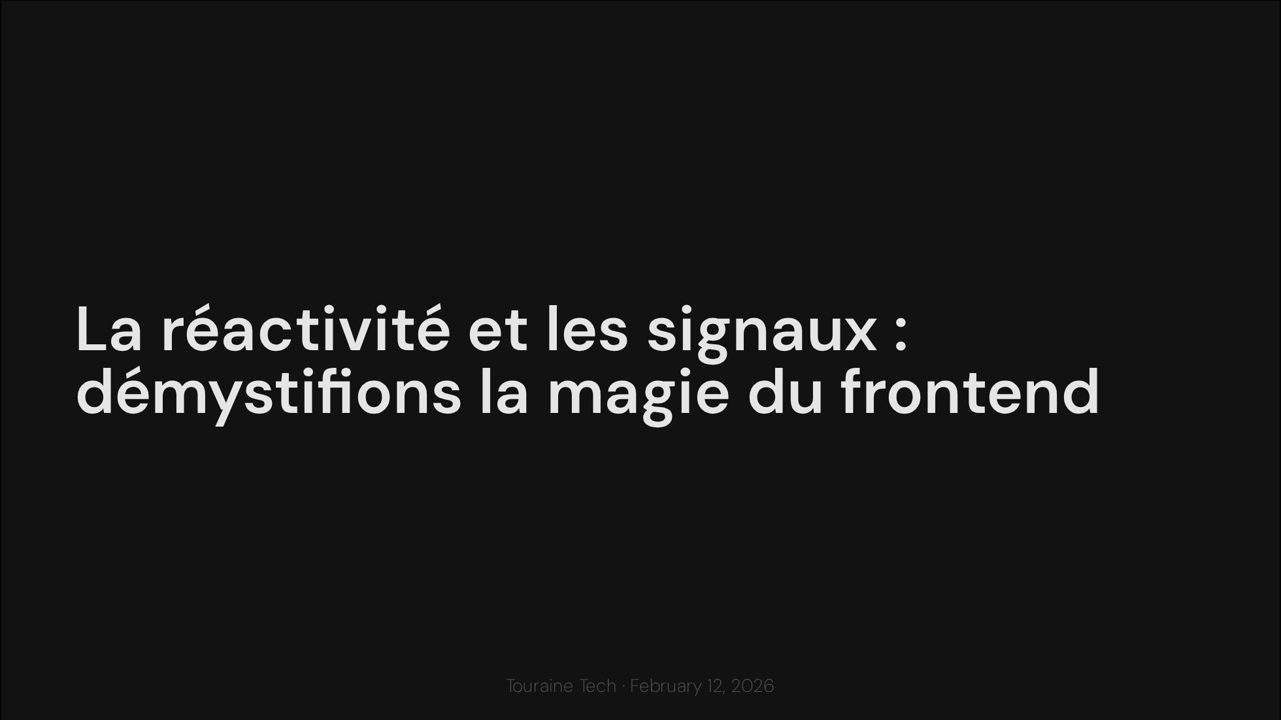
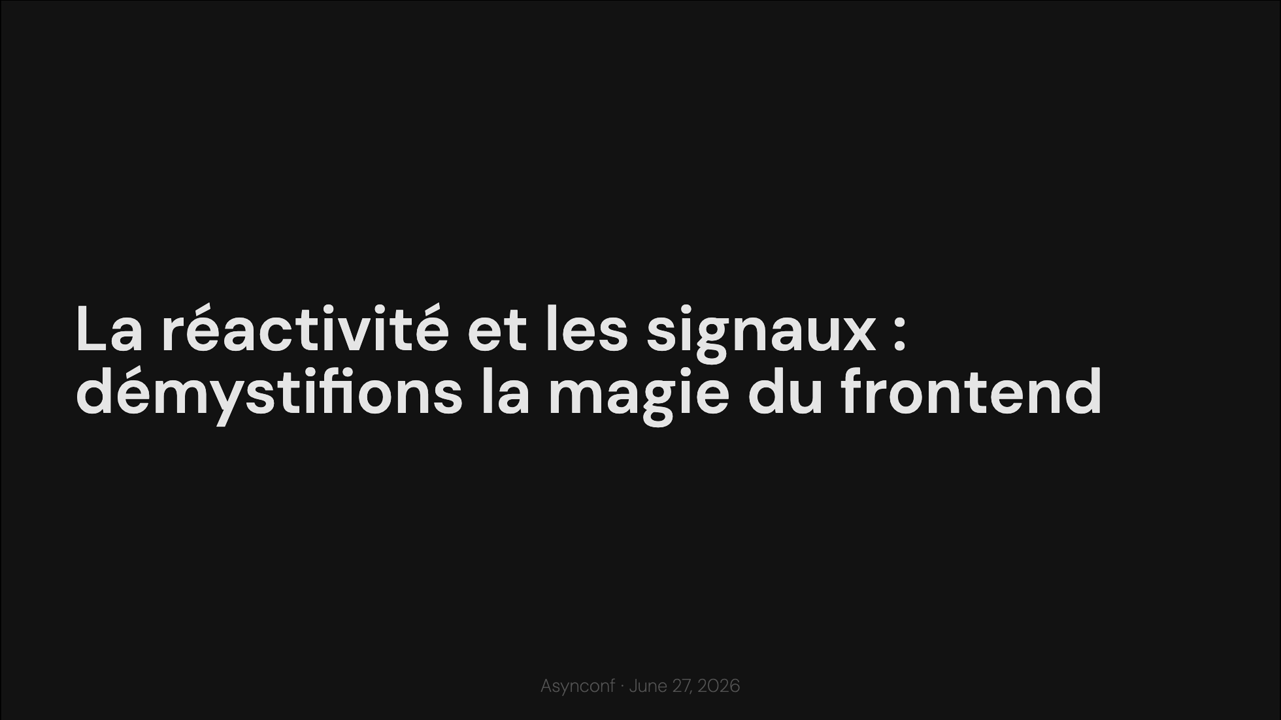
chore: ready

diff --git a/README.md b/README.md
@@ -6,6 +6,8 @@ Slides from my [talks](https://soubiran.dev/talks).
 
 ### 2026
 
+- `fr` [La réactivité et les signaux : démystifions la magie du frontend](./2026-06-27-1) - Asynconf
+- `fr` [Au cœur d'une pipeline : démystifions Vite et ses plugins](./2026-06-27-2) - Asynconf
 - `fr` [Au cœur d'une pipeline : démystifions Vite et ses plugins](./2026-06-18) - Voxxed Days Luxembourg
 - `fr` [Au cœur d'une pipeline : démystifions Vite et ses plugins](./2026-06-12) - DevLille
 - `fr` [Au cœur d'une pipeline : démystifions Vite et ses plugins](./2026-06-09) - Paris TypeScript
@@ -56,6 +58,8 @@ Slides from my [talks](https://soubiran.dev/talks).
 <summary>Copy talks list as text</summary>
 
 ```
+2026-06-27 - La réactivité et les signaux : démystifions la magie du frontend - Asynconf - Paris, France
+2026-06-27 - Au cœur d'une pipeline : démystifions Vite et ses plugins - Asynconf - Paris, France
 2026-06-18 - Au cœur d'une pipeline : démystifions Vite et ses plugins - Voxxed Days Luxembourg - Luxembourg, Luxembourg
 2026-06-12 - Au cœur d'une pipeline : démystifions Vite et ses plugins - DevLille - Lille, France
 2026-06-09 - Au cœur d'une pipeline : démystifions Vite et ses plugins - Paris TypeScript - Paris, France
@@ -102,16 +106,17 @@ Slides from my [talks](https://soubiran.dev/talks).
 
 | Year | Number of Talks |
 |------|-----------------|
-| 2026 | 8 |
+| 2026 | 12 |
 | 2025 | 19 |
 | 2024 | 6 |
 | 2023 | 1 |
-| **Total** | **34** |
+| **Total** | **38** |
 
 ### Talks per Event
 
 | Event | Total | 2026 | 2025 | 2024 | 2023 |
 |-------|-------|------|------|------|------|
+| Asynconf | 2 | 2 | 0 | 0 | 0 |
 | BDX I/O | 2 | 0 | 2 | 0 | 0 |
 | BreizhCamp | 2 | 0 | 2 | 0 | 0 |
 | DevFest Dijon | 1 | 0 | 1 | 0 | 0 |
@@ -137,13 +142,13 @@ Slides from my [talks](https://soubiran.dev/talks).
 
 | Talk Title | Total | 2026 | 2025 | 2024 | 2023 |
 |------------|-------|------|------|------|------|
-| Au cœur d'une pipeline : démystifions Vite et ses plugins | 5 | 5 | 0 | 0 | 0 |
+| Au cœur d'une pipeline : démystifions Vite et ses plugins | 8 | 8 | 0 | 0 | 0 |
 | Découvrons ensemble l'écosystème UnJS | 1 | 0 | 0 | 1 | 0 |
 | Deviens full-stack avec TypeScript | 1 | 0 | 1 | 0 | 0 |
 | En JavaScript, il y a un paquet pour tout... et souvent pour rien. | 7 | 1 | 6 | 0 | 0 |
 | Fluidifier l'expérience utilisateur | 1 | 0 | 0 | 1 | 0 |
 | Inertia: Un Anneau pour les gouverner tous | 3 | 1 | 2 | 0 | 0 |
-| La réactivité et les signaux : démystifions la magie du frontend | 9 | 1 | 8 | 0 | 0 |
+| La réactivité et les signaux : démystifions la magie du frontend | 10 | 2 | 8 | 0 | 0 |
 | Nuxt, NuxtHub et le full-stack | 1 | 0 | 0 | 1 | 0 |
 | Ship Nuxt apps that scale | 2 | 0 | 1 | 1 | 0 |
 | Unifié et Universel, le JavaScript avec UnJS | 1 | 0 | 0 | 1 | 0 |
@@ -155,11 +160,11 @@ Slides from my [talks](https://soubiran.dev/talks).
 
 | Year | With Recording | Without Recording | Coverage |
 |------|----------------|-------------------|----------|
-| 2026 | 1 | 7 | 13% |
+| 2026 | 1 | 11 | 8% |
 | 2025 | 6 | 13 | 32% |
 | 2024 | 3 | 3 | 50% |
 | 2023 | 1 | 0 | 100% |
-| **Total** | **11** | **23** | **32%** |
+| **Total** | **11** | **27** | **29%** |
 
 ### Talks per City
 
@@ -167,10 +172,12 @@ Slides from my [talks](https://soubiran.dev/talks).
 |------|-------|------|------|------|------|
 | Bordeaux | 2 | 0 | 2 | 0 | 0 |
 | Dijon | 1 | 0 | 1 | 0 | 0 |
+| Lille | 1 | 1 | 0 | 0 | 0 |
+| Luxembourg | 1 | 1 | 0 | 0 | 0 |
 | Lyon | 3 | 1 | 2 | 0 | 0 |
 | Nantes | 1 | 0 | 1 | 0 | 0 |
 | Online | 1 | 0 | 0 | 1 | 0 |
-| Paris | 18 | 5 | 9 | 3 | 1 |
+| Paris | 20 | 7 | 9 | 3 | 1 |
 | Prague | 1 | 0 | 0 | 1 | 0 |
 | Rennes | 2 | 0 | 2 | 0 | 0 |
 | Strasbourg | 2 | 0 | 1 | 1 | 0 |

diff --git a/2026-06-27-2/src/slides.md b/2026-06-27-2/src/slides.md
@@ -1899,8 +1899,6 @@ name: Outro
 ready: true
 timing: 0.3
 layout: outro2
-additionalContentUrl: https://gifts.talks.soubiran.dev/talks/asynconf/au-coeur-dune-pipeline-demystifions-vite-et-ses-plugins/subscriptions/create
-customFeedbackUrl: https://inalia.app/f/8DR0I7
 ---
 
 <!--

diff --git a/2026-06-12/src/slides.md b/2026-06-12/src/slides.md
@@ -3101,7 +3101,6 @@ name: Outro
 ready: true
 timing: 0.3
 layout: outro2
-additionalContentUrl: https://gifts.talks.soubiran.dev/talks/au-coeur-dune-pipeline-demystifions-vite-et-ses-plugins/subscriptions/create
 ---
 
 <!--

diff --git a/2026-06-18/src/slides.md b/2026-06-18/src/slides.md
@@ -3100,7 +3100,6 @@ name: Outro
 ready: true
 timing: 0.3
 layout: outro2
-additionalContentUrl: https://gifts.talks.soubiran.dev/talks/au-coeur-dune-pipeline-demystifions-vite-et-ses-plugins/subscriptions/create
 ---
 
 <!--

diff --git a/2026-06-09/src/slides.md b/2026-06-09/src/slides.md
@@ -1113,7 +1113,6 @@ name: Outro
 timing: 1
 layout: outro2
 ready: true
-additionalContentUrl: https://gifts.talks.soubiran.dev/talks/au-coeur-dune-pipeline-demystifions-vite-et-ses-plugins/subscriptions/create
 ---
 
 <!--

diff --git a/2026-06-27-2/README.md b/2026-06-27-2/README.md
@@ -1,3 +1,3 @@
 # Au cœur d'une pipeline : démystifions Vite et ses plugins
 
-2026/06/18 - [Voxxed Days Luxembourg](https://luxembourg.voxxeddays.com/en/)
+2026/06/27 - [Asynconf](https://app.itsasync.fr/conference)

diff --git a/2026-06-27-1/README.md b/2026-06-27-1/README.md
@@ -1,3 +1,3 @@
 # La réactivité et les signaux : démystifions la magie du frontend
 
-2026/02/12 - [Touraine Tech](https://touraine.tech/)
+2026/06/27 - [Asynconf](https://app.itsasync.fr/conference)

diff --git a/2026-06-27-1/src/slides.md b/2026-06-27-1/src/slides.md
@@ -496,7 +496,6 @@ C'est d'ailleurs l'un des grands changements dans Vue Vapor où la ganularité d
 ---
 name: Outro
 layout: outro2
-customFeedbackUrl: https://inalia.app/f/rsClYt
 ready: true
 ---
 
